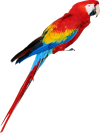
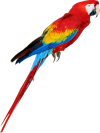
v.1.11.1 - Parrot model.

Changed region(s): [[0.51, 0.3609, 0.63, 0.4812], [0.63, 0.3609, 0.75, 0.391]]

diff --git a/src/main/java/blackbeard/powers/ParrotPower.java b/src/main/java/blackbeard/powers/ParrotPower.java
@@ -3,10 +3,10 @@ package blackbeard.powers;
 import basemod.ReflectionHacks;
 import blackbeard.TheBlackbeardMod;
 import blackbeard.enums.PlayerClassEnum;
+import blackbeard.spineUtils.RegionAttachmentRenderedWithNoPremultipliedAlpha;
 import com.badlogic.gdx.graphics.Texture;
 import com.badlogic.gdx.graphics.g2d.TextureAtlas;
 import com.badlogic.gdx.graphics.g2d.TextureRegion;
-import com.badlogic.gdx.utils.Array;
 import com.esotericsoftware.spine.Skeleton;
 import com.esotericsoftware.spine.Skin;
 import com.esotericsoftware.spine.Slot;
@@ -33,6 +33,11 @@ public class ParrotPower extends AbstractPower {
     private static final Texture power48Image = ImageMaster.loadImage(TheBlackbeardMod.getPower48ImagePath(POWER_ID));
 
     private static final String BLACKBEARD_PARROT_PATH = "blackbeard/img/char/blackbeard/Parrot.png";
+
+    private static Texture tex = ImageMaster.loadImage(BLACKBEARD_PARROT_PATH);
+
+    private static String ATTACH_NAME = "Parrot";
+    private static String ATTACH_CLONE_NAME = "ParrotClone";
 
     public CardQueueItem lastCardQueueItem = null;
 
@@ -85,46 +90,54 @@ public class ParrotPower extends AbstractPower {
     public void onInitialApplication() {
         if (AbstractDungeon.player.chosenClass == PlayerClassEnum.BLACKBEARD_CLASS) {
             Skeleton skeleton = (Skeleton) ReflectionHacks.getPrivate(AbstractDungeon.player, AbstractCreature.class, "skeleton");
-            String attachName = "Parrot";
-            String attachCloneName = "ParrotClone";
-            int origSlotIndex = skeleton.findSlotIndex(attachName);
 
-            // Create a new slot for the attachment
-            Slot origSlot = skeleton.findSlot(attachName);
-            Slot slotClone = new Slot(new SlotData(origSlot.getData().getIndex(), attachCloneName, origSlot.getBone().getData()), origSlot.getBone());
-            slotClone.getData().setBlendMode(origSlot.getData().getBlendMode());
-
-            skeleton.getSlots().insert(origSlotIndex, slotClone);
-
-            // Add new slot to draw order
-            Array<Slot> drawOrder = skeleton.getDrawOrder();
-            drawOrder.add(slotClone);
-            skeleton.setDrawOrder(drawOrder);
-
-            Texture tex = ImageMaster.loadImage(BLACKBEARD_PARROT_PATH);
-            tex.setFilter(Texture.TextureFilter.Linear, Texture.TextureFilter.Linear);
+            int origSlotIndex = skeleton.findSlotIndex(ATTACH_NAME);
+            createANewSlotForTheAttachmentIfItsNotAlreadyCreated(skeleton, origSlotIndex);
 
             TextureRegion region = new TextureRegion(tex);
-            RegionAttachment attachment = new RegionAttachment("ParrotClone");
+            RegionAttachment attachment = new RegionAttachmentRenderedWithNoPremultipliedAlpha("ParrotClone");
             attachment.setRegion(region);
             attachment.setWidth(tex.getWidth());
             attachment.setHeight(tex.getHeight());
-            attachment.setX(0 * Settings.scale);
-            attachment.setY(0 * Settings.scale);
+            attachment.setX(15 * Settings.scale);
+            attachment.setY(70 * Settings.scale);
             attachment.setScaleX(1 * Settings.scale);
             attachment.setScaleY(1 * Settings.scale);
-            attachment.setRotation(0.0f);
+            attachment.setRotation(90.0f);
             attachment.updateOffset();
 
             Skin skin = skeleton.getData().getDefaultSkin();
             skin.addAttachment(origSlotIndex, attachment.getName(), attachment);
 
-            skeleton.setAttachment(attachCloneName, attachment.getName());
+            skeleton.setAttachment(ATTACH_CLONE_NAME, attachment.getName());
         }
+    }
+
+    private void createANewSlotForTheAttachmentIfItsNotAlreadyCreated(Skeleton skeleton, int origSlotIndex) {
+
+        if (skeleton.findSlot(ATTACH_CLONE_NAME) != null) {
+            return;
+        }
+
+        Slot origSlot = skeleton.findSlot(ATTACH_NAME);
+        Slot slotClone = new Slot(new SlotData(origSlot.getData().getIndex(), ATTACH_CLONE_NAME, origSlot.getBone().getData()), origSlot.getBone());
+        slotClone.getData().setBlendMode(origSlot.getData().getBlendMode());
+        skeleton.getSlots().insert(origSlotIndex, slotClone);
+        skeleton.getDrawOrder().insert(skeleton.findSlotIndex(ATTACH_NAME), slotClone);
+
     }
 
     @Override
     public void onRemove() {
+        removeParrotModelFromCharacter();
+    }
 
+    public static void removeParrotModelFromCharacter() {
+        if (AbstractDungeon.player.chosenClass == PlayerClassEnum.BLACKBEARD_CLASS) {
+            Skeleton skeleton = (Skeleton) ReflectionHacks.getPrivate(AbstractDungeon.player, AbstractCreature.class, "skeleton");
+            if (skeleton.findSlot(ATTACH_CLONE_NAME) != null) {
+                skeleton.setAttachment(ATTACH_CLONE_NAME, null);
+            }
+        }
     }
 }

diff --git a/src/main/java/blackbeard/patches/SkeletonMeshRendererPatch.java b/src/main/java/blackbeard/patches/SkeletonMeshRendererPatch.java
@@ -1,0 +1,31 @@
+package blackbeard.patches;
+
+import blackbeard.spineUtils.RegionAttachmentRenderedWithNoPremultipliedAlpha;
+import com.badlogic.gdx.graphics.g2d.PolygonSpriteBatch;
+import com.esotericsoftware.spine.Skeleton;
+import com.esotericsoftware.spine.SkeletonMeshRenderer;
+import com.esotericsoftware.spine.attachments.Attachment;
+import com.esotericsoftware.spine.attachments.RegionAttachment;
+import com.evacipated.cardcrawl.modthespire.lib.*;
+import com.evacipated.cardcrawl.modthespire.patcher.PatchingException;
+import javassist.CannotCompileException;
+import javassist.CtBehavior;
+
+@SpirePatch(clz = SkeletonMeshRenderer.class, method = "draw", paramtypez = {PolygonSpriteBatch.class, Skeleton.class})
+public class SkeletonMeshRendererPatch {
+
+    @SpireInsertPatch(locator = Locator.class, localvars = {"premultipliedAlpha", "attachment"})
+    public static void Insert(SkeletonMeshRenderer skeletonMeshRenderer, PolygonSpriteBatch batch, Skeleton skeleton, @ByRef boolean[] premultipliedAlpha, Attachment attachment) {
+        if (attachment instanceof RegionAttachmentRenderedWithNoPremultipliedAlpha) {
+            premultipliedAlpha[0] = false;
+        }
+    }
+
+    public static class Locator extends SpireInsertLocator {
+        public int[] Locate(CtBehavior ctMethodToPatch) throws CannotCompileException, PatchingException {
+            Matcher matcher = new Matcher.InstanceOfMatcher(RegionAttachment.class);
+            return LineFinder.findInOrder(ctMethodToPatch, matcher);
+        }
+    }
+
+}

diff --git a/src/main/java/blackbeard/patches/RemoveParrotOnResetPlayerPatch.java b/src/main/java/blackbeard/patches/RemoveParrotOnResetPlayerPatch.java
@@ -1,0 +1,14 @@
+package blackbeard.patches;
+
+import blackbeard.powers.ParrotPower;
+import com.evacipated.cardcrawl.modthespire.lib.SpirePatch;
+import com.megacrit.cardcrawl.dungeons.AbstractDungeon;
+
+@SpirePatch(clz = AbstractDungeon.class, method = "resetPlayer")
+public class RemoveParrotOnResetPlayerPatch {
+
+    public static void Postfix() {
+        ParrotPower.removeParrotModelFromCharacter();
+    }
+
+}

diff --git a/src/main/java/blackbeard/spineUtils/RegionAttachmentRenderedWithNoPremultipliedAlpha.java b/src/main/java/blackbeard/spineUtils/RegionAttachmentRenderedWithNoPremultipliedAlpha.java
@@ -1,0 +1,10 @@
+package blackbeard.spineUtils;
+
+import com.esotericsoftware.spine.attachments.RegionAttachment;
+
+public class RegionAttachmentRenderedWithNoPremultipliedAlpha extends RegionAttachment {
+
+    public RegionAttachmentRenderedWithNoPremultipliedAlpha(String name) {
+        super(name);
+    }
+}
